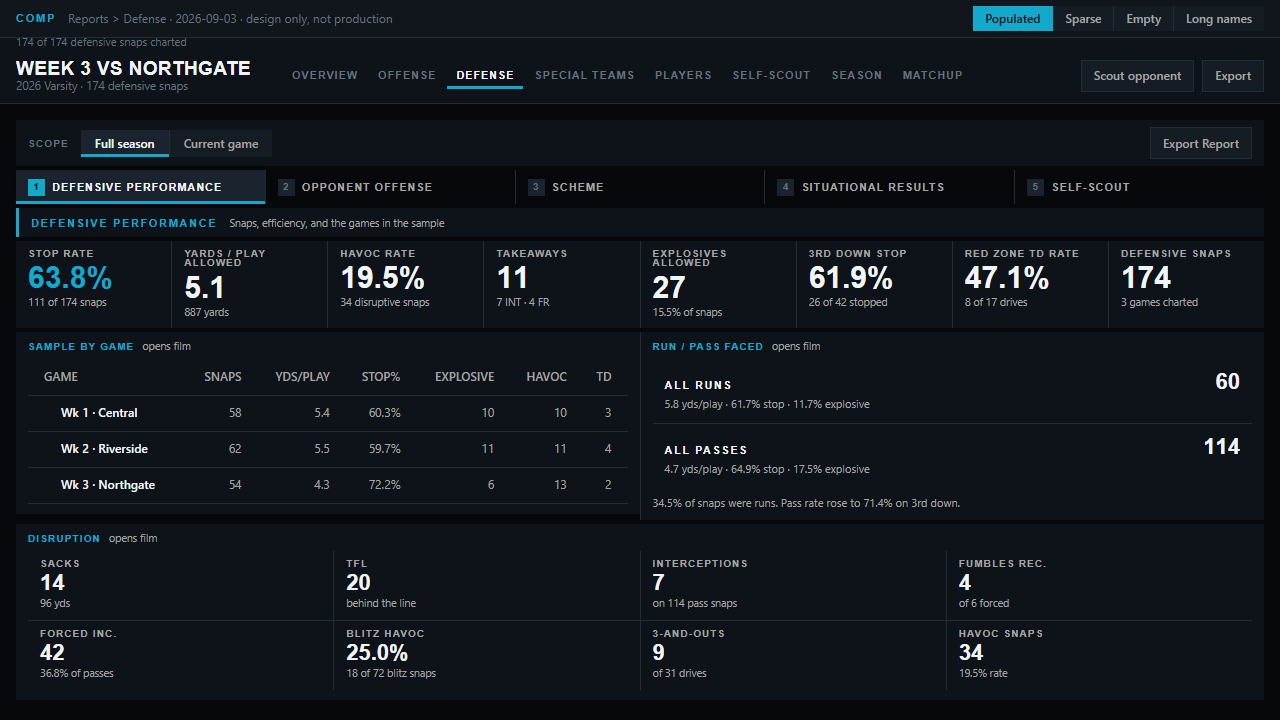
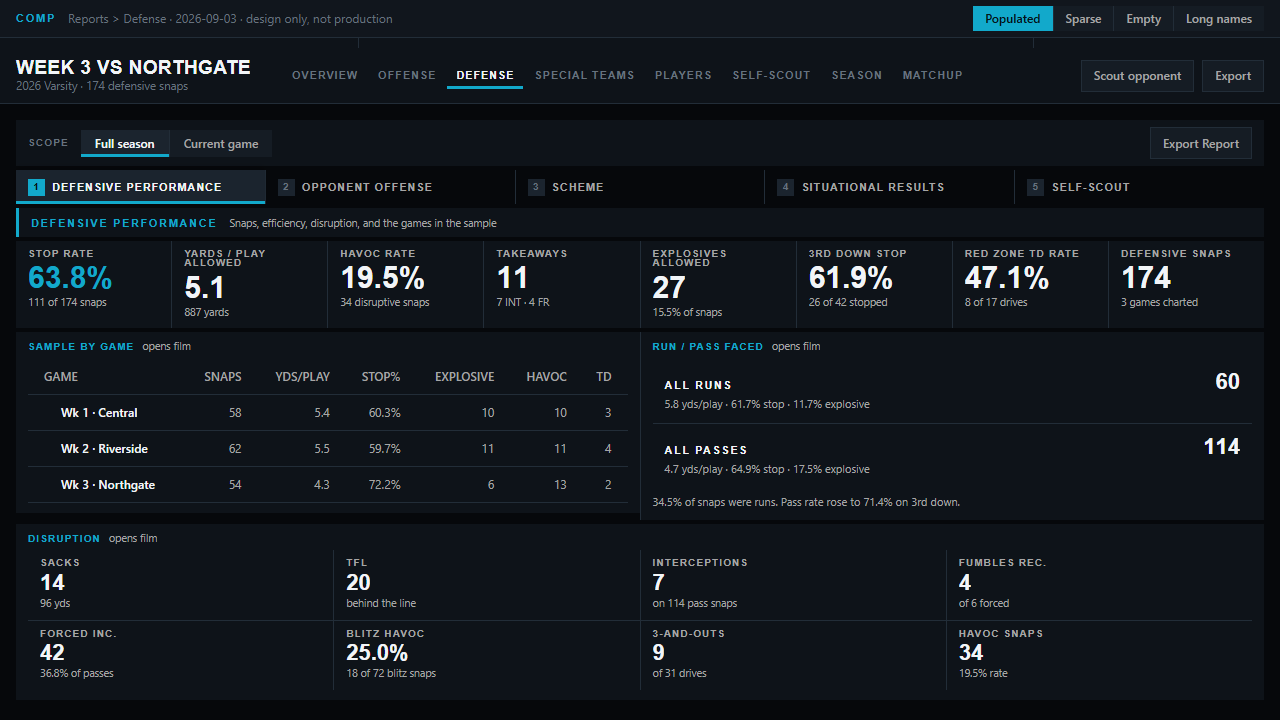
design: scorebug revisions from coach review; fix the last rationale remnant
Coach picked the linescore layout and gave four corrections.

Nicknames instead of school names. The 2026-08-31 naming contract already
stores school and nickname separately (`nickname` / `opponentNickname`,
composed by `fullIdentity`), so the bug shows "Mavericks" and "Ravens" with
the full school identity in the tooltip. A nickname is short by nature, which
retires the name-width problem rather than managing it -- the bug is now the
same height whatever the schools are called.

The meta block is removed. It restated the matchup and the charted count that
the report head states one line below.

Separators, per the broadcast reference: a hairline between the two team rows,
and the final in its own bordered block at slightly raised weight, so the eye
lands on the score without reading the quarters first. The quarter columns stay
unadorned -- they are supporting detail, not the headline.

Scores are two digits. A three-digit football score is a once-in-a-generation
game; 118-107 was testing a case the product will never see. The long-name
state now reads 42-38.

Removing the meta block left three script writes to a node that no longer
existed, which threw before the identity strip rendered and silently blanked
it -- 27 console errors, caught because the capture script reports them.

Also fixed, the remnant from Codex's review: the section summary still placed
disruption under Situational results. Disruption is section 1; section 4 is
[…]

diff --git a/design-comps/reports-defense-2026-09-03/defense.html b/design-comps/reports-defense-2026-09-03/defense.html
@@ -110,9 +110,22 @@ button{font-family:inherit}
   white-space:nowrap
 }
 .sb-q{color:var(--gi-bd-strong);font:600 15px/1.25 var(--gi-cond);font-variant-numeric:var(--gi-num-feat)}
-.sb-tot{color:var(--gi-bd-strong);font:700 26px/1.05 var(--gi-cond);font-variant-numeric:var(--gi-num-feat)}
+.sb-tot{color:var(--gi-bd-strong);font:700 28px/1.05 var(--gi-cond);font-variant-numeric:var(--gi-num-feat)}
 /* Both rows read the same. Dimming the losing team costs legibility to
    restate what the numbers already say. */
+/* Separators, borrowed from broadcast practice: the two teams are divided by a
+   hairline, and the final sits in its own raised block so the eye lands on it
+   without reading the quarters first. The quarter columns stay unadorned --
+   they are supporting detail, not the headline. */
+.sb-score>.sb-tot,.sb-score>.sb-hd.tot{
+  background:var(--gi-bd-control-active);
+  border-left:1px solid var(--gi-bd-line);
+  padding-right:var(--gi-4x)!important;padding-left:var(--gi-4x)!important
+}
+.sb-score>.sb-hd.tot{color:var(--gi-bd-copy)}
+#sbRowThem>*{border-top:1px solid var(--gi-bd-line)}
+.sb-score{padding-right:0}
+.sb-name{padding-right:var(--gi-6x)!important}
 .sb-story{display:flex;align-items:center;gap:14px;padding:0 var(--gi-6x);box-shadow:-1px 0 var(--gi-bd-line);white-space:nowrap}
 .sb-story>strong{color:var(--gi-bd-cyan);font:700 30px/1 var(--gi-cond);font-variant-numeric:var(--gi-num-feat)}
 .sb-story>span{max-width:none;white-space:normal;color:var(--gi-bd-copy);font:400 12px/1.35 var(--gi-sans)}
@@ -333,19 +346,18 @@ tbody tr.cut:focus-visible td:first-child::before{opacity:1}
     <div class="sb-hd tot">T</div>
   </div>
   <div class="sb-line" id="sbRowUs">
-    <div class="sb-name" id="sbUsName" title="St. Joseph Mavericks">St. Joseph Mavericks</div>
+    <div class="sb-name" id="sbUsName" title="St. Joseph Mavericks">Mavericks</div>
     <div class="sb-q">7</div><div class="sb-q">14</div><div class="sb-q">0</div><div class="sb-q">7</div>
     <div class="sb-tot" id="sbUs">28</div>
   </div>
   <div class="sb-line" id="sbRowThem">
-    <div class="sb-name" id="sbThemName" title="Northgate">Northgate</div>
+    <div class="sb-name" id="sbThemName" title="Northgate Ravens">Ravens</div>
     <div class="sb-q">7</div><div class="sb-q">0</div><div class="sb-q">7</div><div class="sb-q">7</div>
     <div class="sb-tot" id="sbThem">21</div>
   </div>
   </div>
   <div class="sb-ident" id="sbIdent"></div>
   <div class="sb-story"><strong id="sbYpp">5.1</strong><span id="sbYppSub"><b>Yards per play allowed</b> 887&nbsp;yds &middot; 174&nbsp;snaps</span></div>
-  <div class="sb-meta"><strong id="sbMeta">Full season &middot; 3 games</strong><span id="sbMetaSub">174 of 174 defensive snaps charted</span></div>
 </div>
 <div class="rhead">
   <div>
@@ -397,7 +409,7 @@ tbody tr.cut:focus-visible td:first-child::before{opacity:1}
       <button type="button" data-sec="d5"><b>5</b>Self-scout</button>
     </div>
 
-    <div class="srule" id="d1"><h2>Defensive performance</h2><p>Snaps, efficiency, and the games in the sample</p></div>
+    <div class="srule" id="d1"><h2>Defensive performance</h2><p>Snaps, efficiency, disruption, and the games in the sample</p></div>
     <div class="kpis" id="kpiBand"></div>
     <div class="band b-2">
       <section class="mod">
@@ -473,7 +485,7 @@ tbody tr.cut:focus-visible td:first-child::before{opacity:1}
       </section>
     </div>
 
-    <div class="srule" id="d4"><h2>Situational results</h2><p>Down, distance, field position, and disruption</p><em>Opens film</em></div>
+    <div class="srule" id="d4"><h2>Situational results</h2><p>Down, distance, and scheme by situation</p><em>Opens film</em></div>
     <div class="band b-2">
       <section class="mod">
         <header><strong>Situational defense</strong><span>by situation</span></header>
@@ -796,23 +808,23 @@ function applyScope(d, longNames) {
   render(d);
   $('#sbYpp').textContent = d.ypp;
   $('#sbYppSub').innerHTML = `<b>Yards per play allowed</b> ${d.yards}&nbsp;yds · ${d.snaps}&nbsp;snaps`;
-  $('#sbMeta').textContent = d.scopeLabel;
-  $('#sbMetaSub').textContent = d.charted;
   $('.rhead .sub').textContent = d.headSub;
   $('#sbIdent').innerHTML = d.ident
     .map(([l, v, s]) => `<div><span>${l}</span><strong>${v}</strong><small>${s}</small></div>`).join('');
-  const us = longNames ? 'Immaculate Heart of Mary Catholic Academy' : 'St. Joseph Mavericks';
-  const them = longNames ? 'Our Lady of Perpetual Help Prep' : 'Northgate';
-  $('#sbUsName').textContent = $('#sbUsName').title = us;
+  // Nicknames in the bug; the full school identity stays in the tooltip.
+  const us = longNames ? 'Golden Bears' : 'Mavericks';
+  const them = longNames ? 'Fighting Irish' : 'Ravens';
+  $('#sbUsName').textContent = us;
+  $('#sbUsName').title = longNames ? 'Immaculate Heart of Mary Catholic Academy Golden Bears' : 'St. Joseph Mavericks';
   /* The matchup is one fact. Renaming only the scorebug left the header and
      the context bar naming a different opponent. */
   const title = longNames ? 'Week 3 vs Our Lady of Perpetual Help Prep' : 'Week 3 vs Northgate';
   $('.rhead h1').textContent = title;
   $('#ctxGame').textContent = title;
-  if (state !== 'sparse') $('#sbMeta').textContent = longNames ? title : d.scopeLabel;
-  $('#sbThemName').textContent = $('#sbThemName').title = them;
-  $('#sbUs').textContent = longNames ? '118' : '28';
-  $('#sbThem').textContent = longNames ? '107' : '21';
+  $('#sbThemName').textContent = them;
+  $('#sbThemName').title = longNames ? 'Our Lady of Perpetual Help Prep Fighting Irish' : 'Northgate Ravens';
+  $('#sbUs').textContent = longNames ? '42' : '28';
+  $('#sbThem').textContent = longNames ? '38' : '21';
 }
 
 let scope = 'season', state = 'full';

diff --git a/design-comps/reports-defense-2026-09-03/RATIONALE.md b/design-comps/reports-defense-2026-09-03/RATIONALE.md
@@ -27,10 +27,10 @@ Five sections, not six, and named for what a defensive coach is looking for:
 
 | # | Section | Supporting label |
 |---|---|---|
-| 1 | Defensive performance | Snaps, efficiency, and the games in the sample |
+| 1 | Defensive performance | Snaps, efficiency, disruption, and the games in the sample |
 | 2 | Opponent Offense | Opponent play type, frequency, and production |
 | 3 | Scheme | Fronts, coverage, and pressure |
-| 4 | Situational results | Down, distance, field position, and disruption |
+| 4 | Situational results | Down, distance, and scheme by situation |
 | 5 | Self-scout | Predictability and tendency tells |
 
 The five sections are a **TAB STRIP**: one section on screen at a time.
